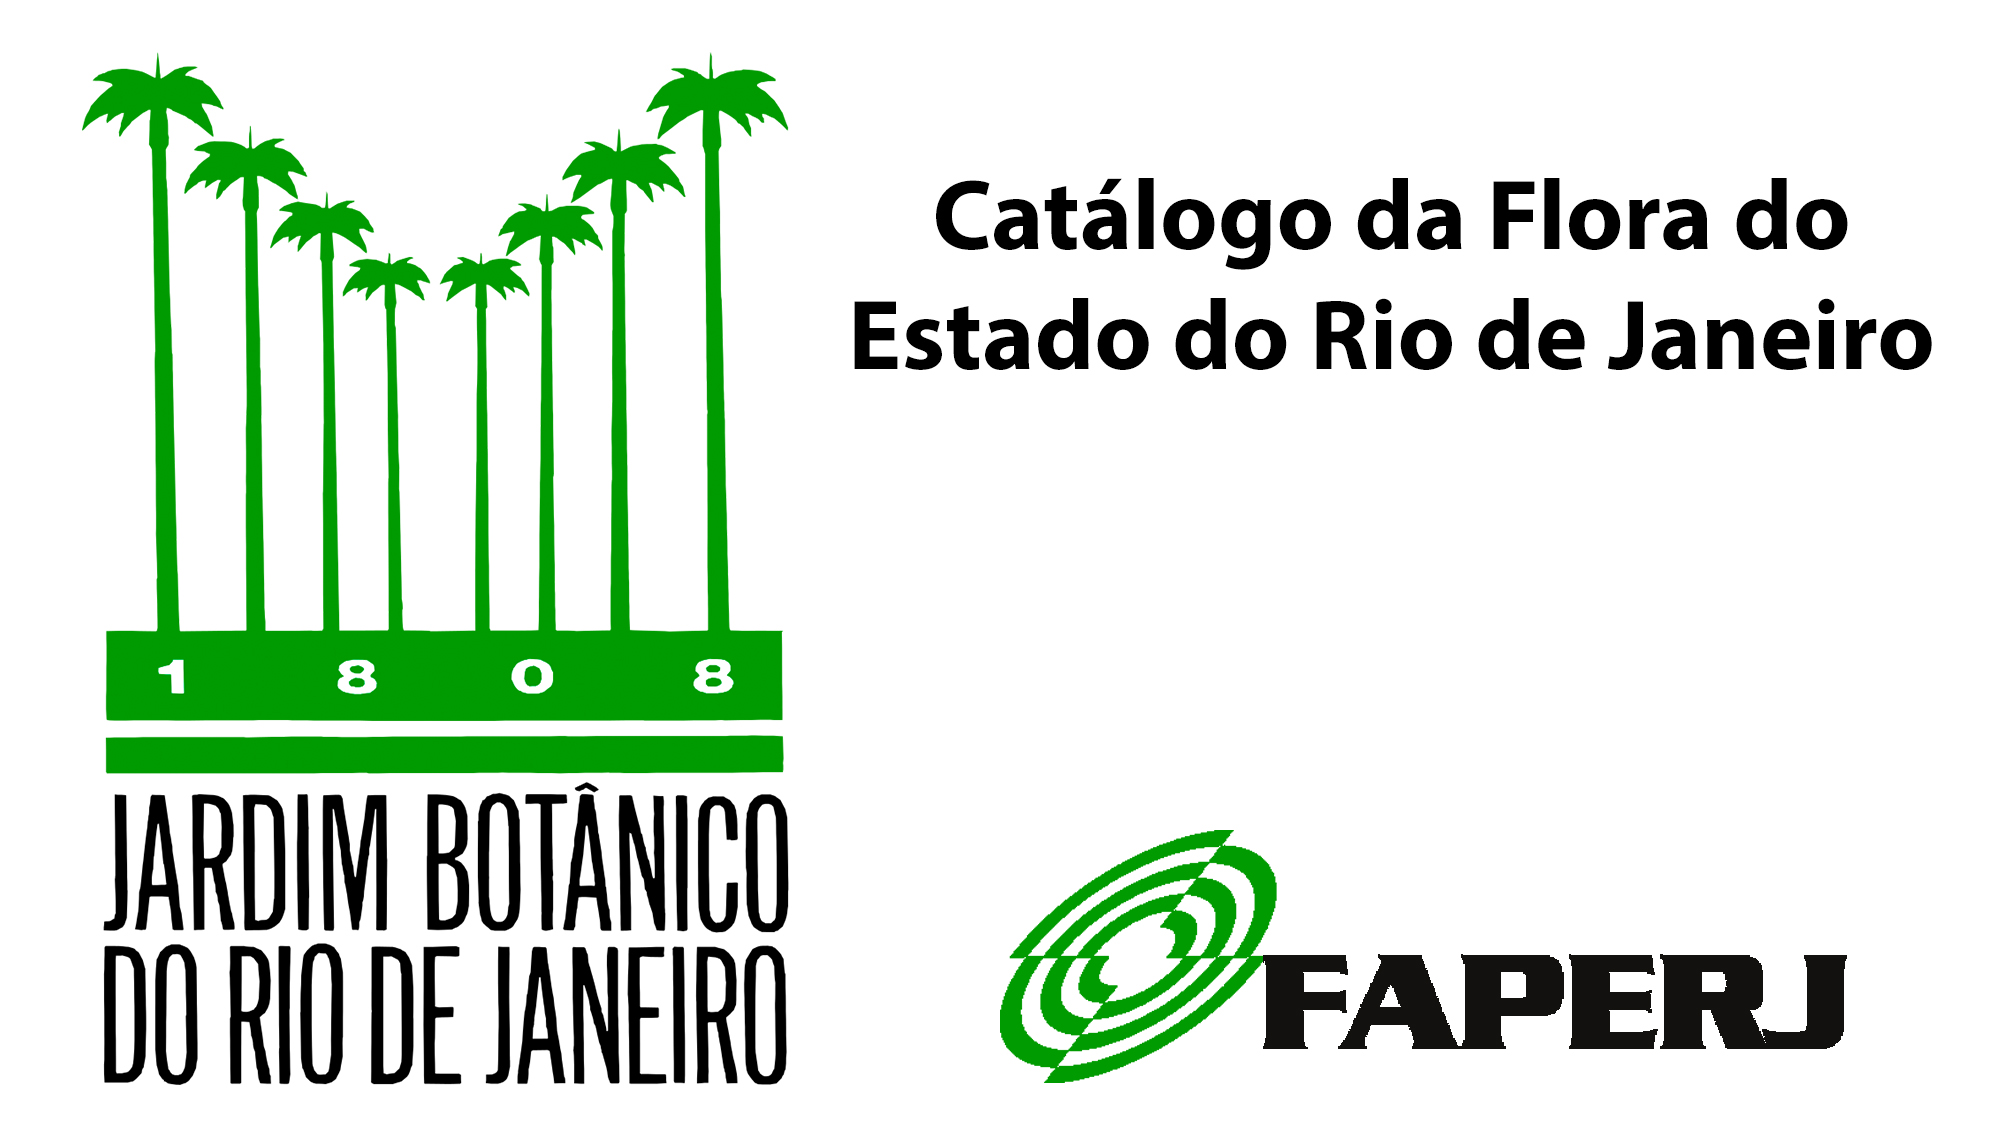
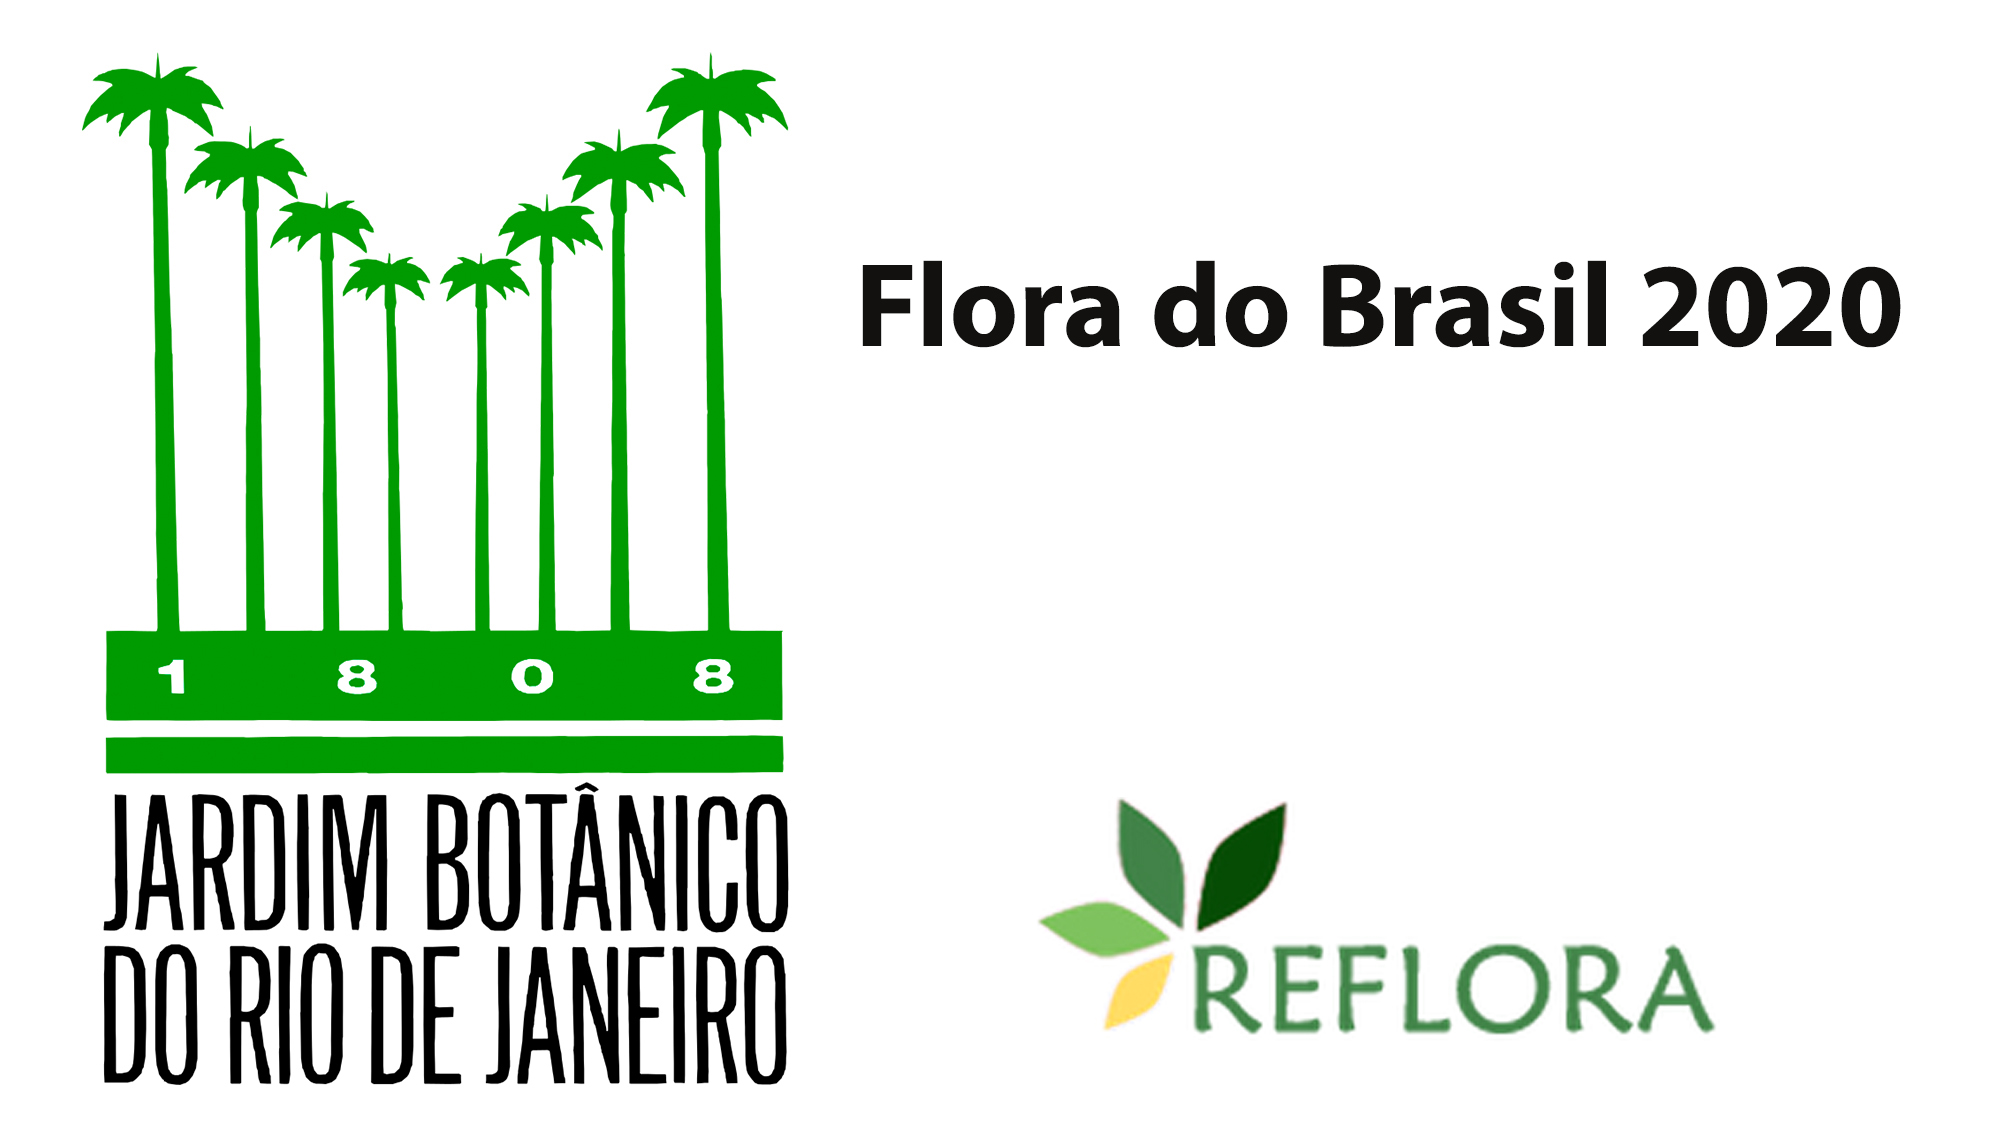
lvm

Changed region(s): [[0.403, 0.1556, 0.961, 0.3422], [0.496, 0.7156, 0.93, 0.9644]]

diff --git a/content/project/external-project-fb2020/index.md b/content/project/external-project-fb2020/index.md
@@ -4,7 +4,7 @@ external_link: http://floradobrasil.jbrj.gov.br
 image:
   caption: JBRJ/REFLORA
   focal_point: Smart
-summary: Author of genus *Mimosa* `external link`.
+summary: Author of part of the genus *Mimosa* `external link`.
 tags:
 - List of species
 title: Flora do Brasil 2020
